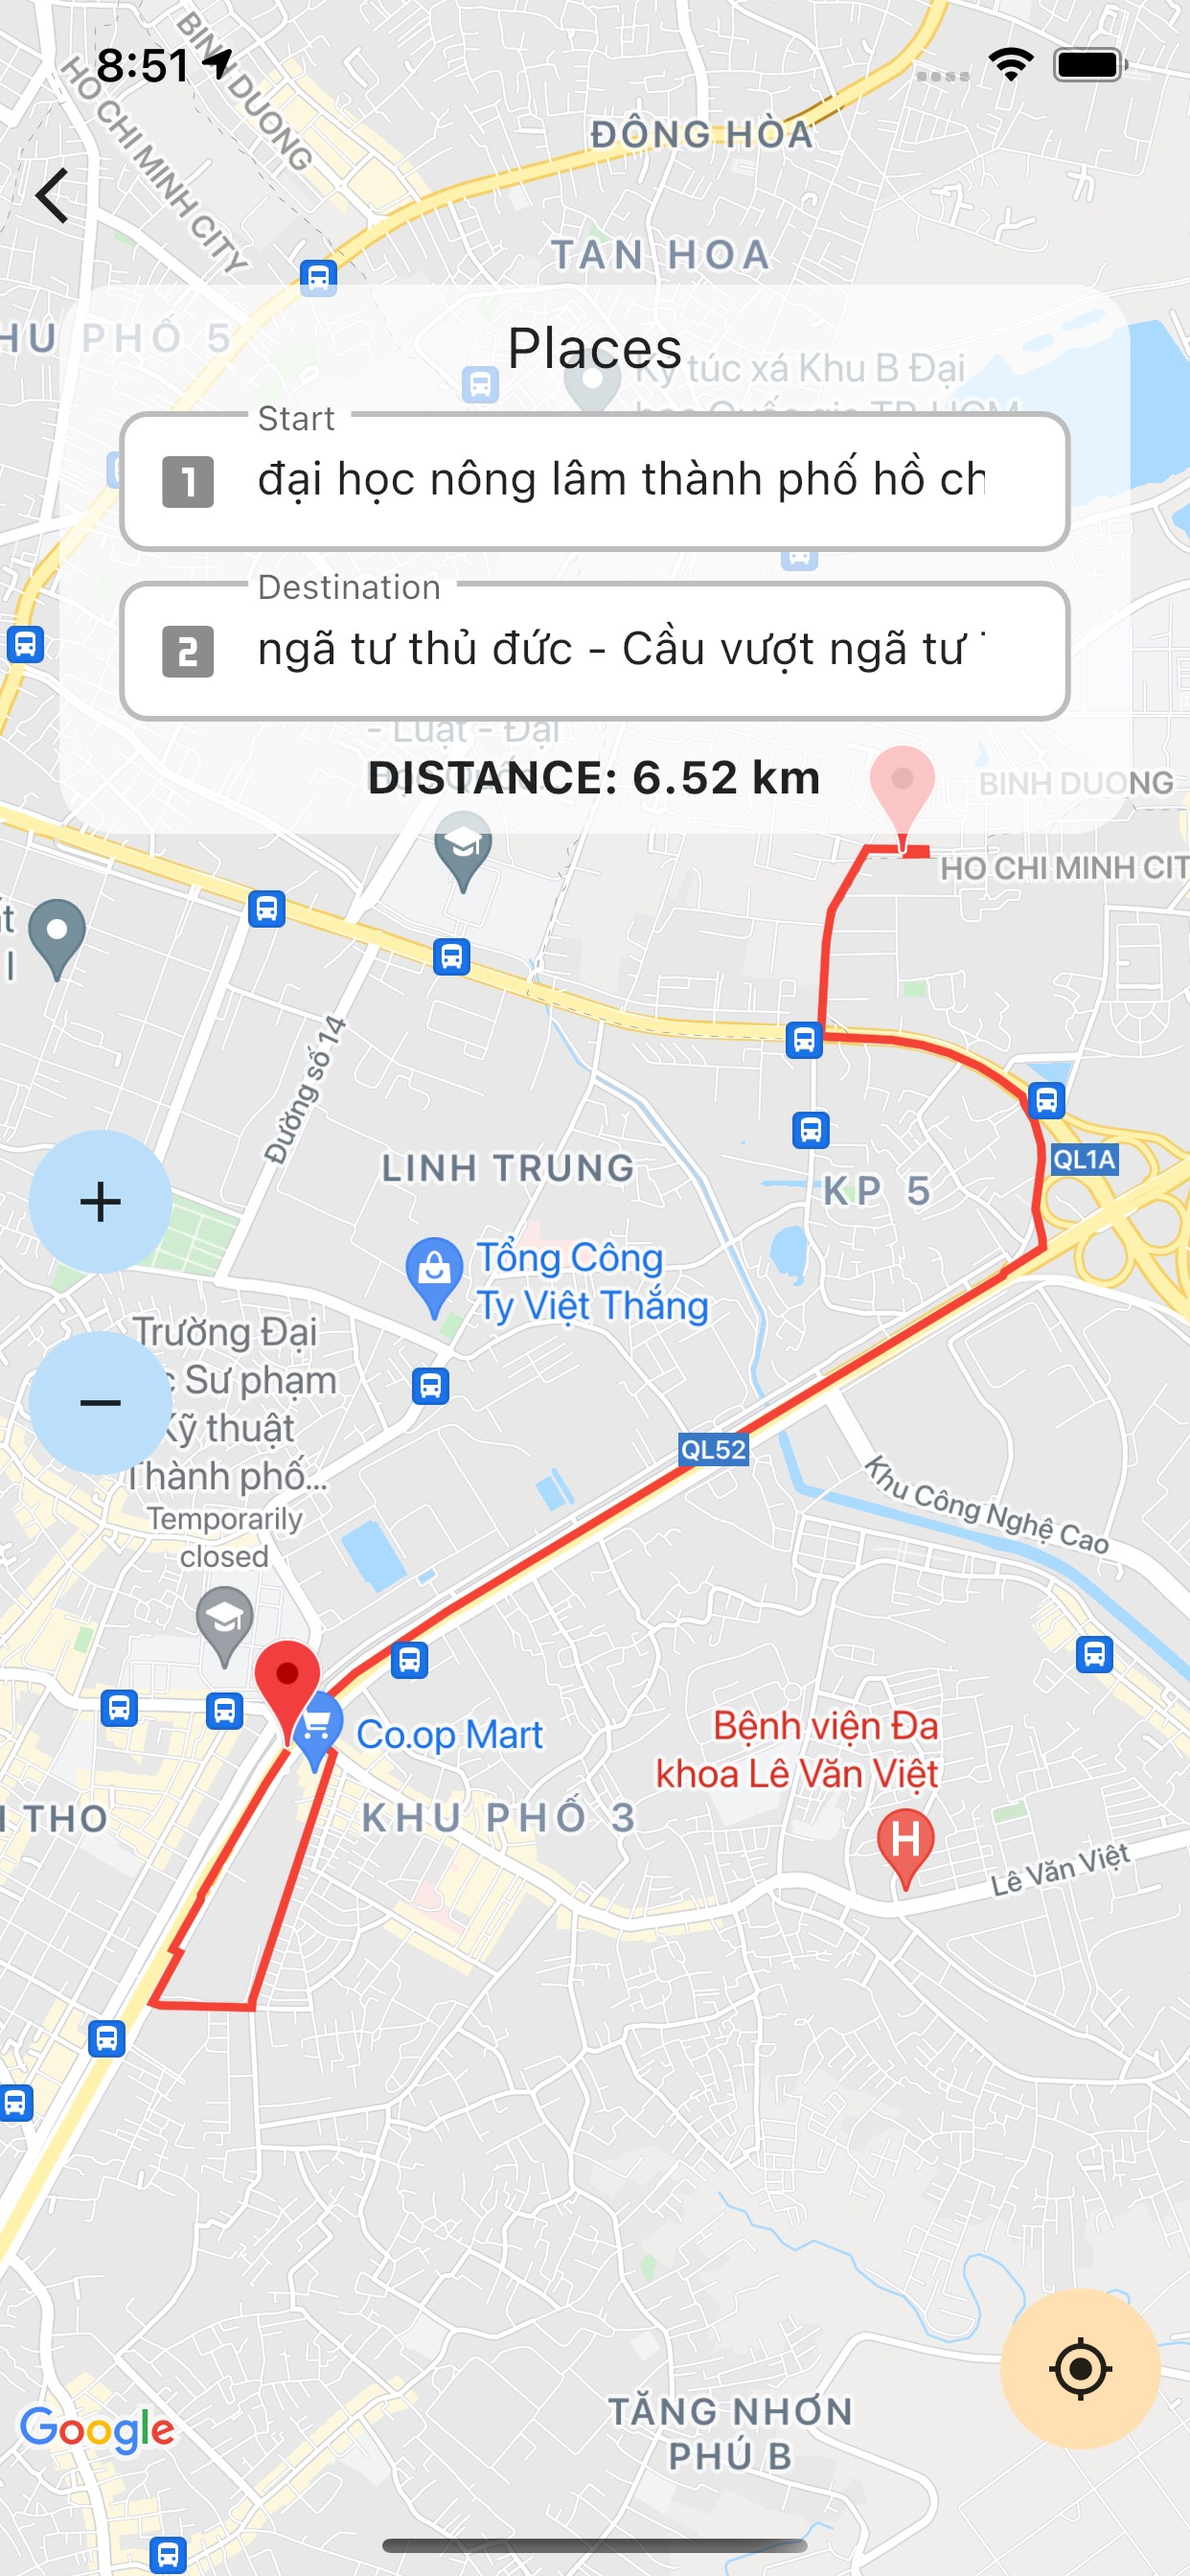
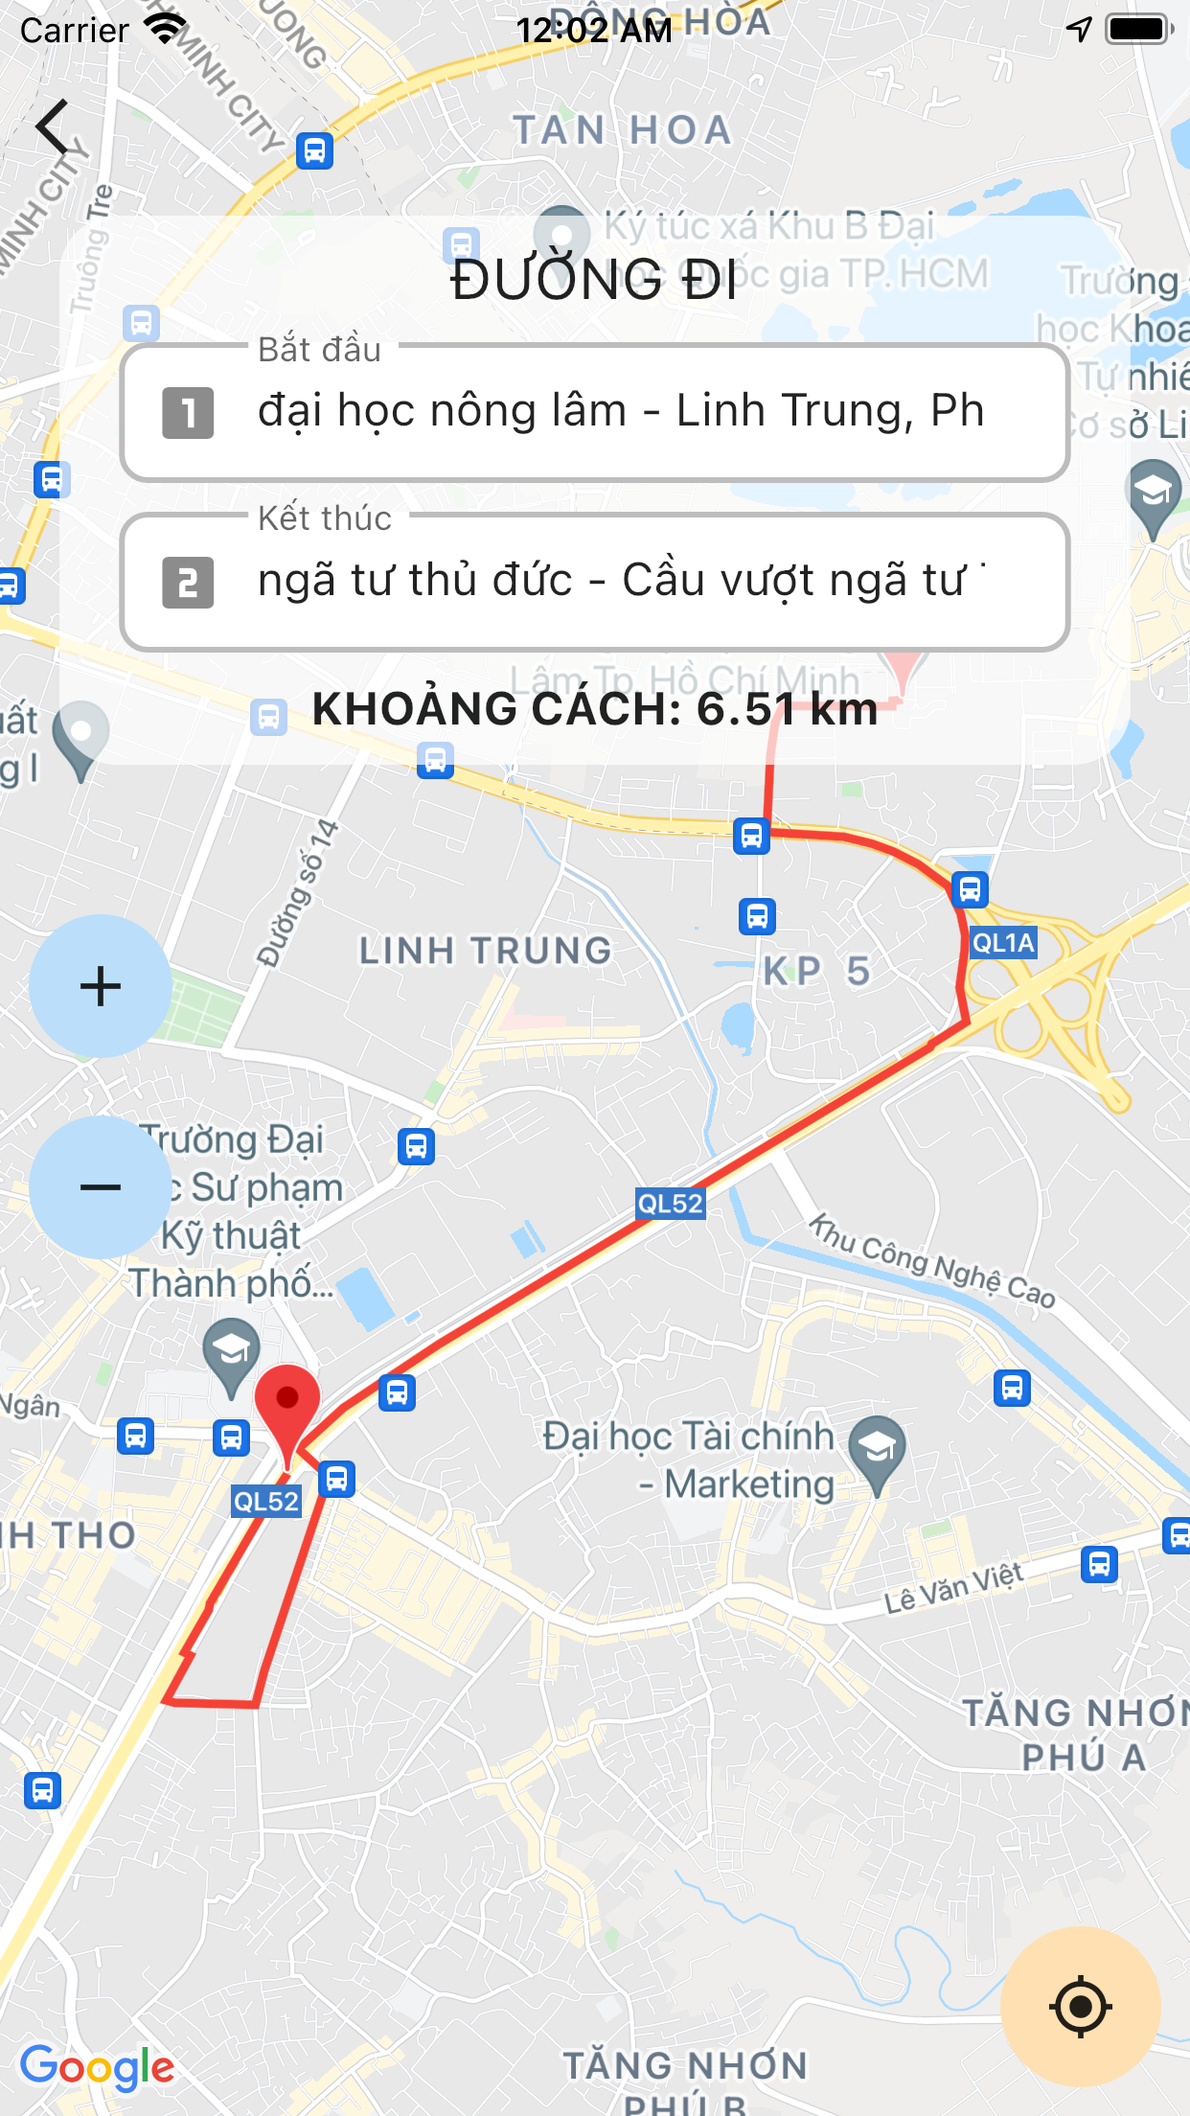
edit all text & img

diff --git a/Chapter2/chapter2.tex b/Chapter2/chapter2.tex
@@ -18,7 +18,7 @@ Chatbot có thể được phân chia thành các loại sau đây:
 
     \item Chatbot kết hợp - Những chatbot này kết hợp các yếu tố của bot dựa trên menu và nhận dạng từ khóa. Người dùng có thể chọn để câu hỏi của họ được trả lời trực tiếp, nhưng cũng có thể truy cập menu của chatbot để thực hiện lựa chọn nếu quá trình nhận dạng từ khóa tạo ra kết quả không hiệu quả.
 
-    \item Chatbot theo ngữ cảnh - Những chatbot này phức tạp hơn những chatbot được liệt kê ở trên và yêu cầu tập trung vào dữ liệu. Họ sử dụng \ac{ml} và \ac{ai} để ghi nhớ các cuộc trò chuyện và tương tác với người dùng, sau đó sử dụng những ký ức này để phát triển và cải thiện theo thời gian. Thay vì dựa vào từ khóa, những bot này sử dụng những gì khách hàng yêu cầu và cách chúng yêu cầu để đưa ra câu trả lời và tự cải thiện.
+    \item Chatbot theo ngữ cảnh - Những chatbot này phức tạp hơn những chatbot được liệt kê ở trên và yêu cầu tập trung vào dữ liệu. Họ sử dụng Machine Learning và \ac{ai} để ghi nhớ các cuộc trò chuyện và tương tác với người dùng, sau đó sử dụng những ký ức này để phát triển và cải thiện theo thời gian. Thay vì dựa vào từ khóa, những bot này sử dụng những gì khách hàng yêu cầu và cách chúng yêu cầu để đưa ra câu trả lời và tự cải thiện.
 
     \item Chatbot hỗ trợ giọng nói - Loại chatbot này là tương lai của công nghệ chatbot. Các chatbot hỗ trợ giọng nói sử dụng đối thoại bằng giọng nói từ người dùng làm dữ liệu đầu vào. Chúng có thể được tạo ra bằng cách sử dụng bộ công cụ chuyển đổi văn bản thành giọng nói (\ac{tts}) và giao diện ứng dụng nhận dạng giọng nói (\ac{api}) \cite{chat-bot}.
 
@@ -53,7 +53,7 @@ Chatbot có thể được phân chia thành các loại sau đây:
     \label{fig:Kiến trúc cơ bản của hệ thống giao tiếp tự động}
 \end{figure}
 
-Các hệ thống chatbot giao tiếp với con người bằng giọng nói (như Siri \footnote{Xem thêm về Siri tại đây:\url{https://www.apple.com/siri/}}) hoặc bằng văn bản (như các chatbot phát triển trên nền Facebook Messenger \footnote{Xem thêm về Facebook Messenger tại đây:\url{https://www.apple.com/siri/}})). Dù giao tiếp bằng hình thức nào, chatbot cũng cần phải hiểu văn bản để có thể đưa ra những câu trả lời phù hợp cho khách hàng. Thành phần đảm nhiệm công việc này trong hệ thống chatbot được gọi là \ac{nlu}, trong đó có rất nhiều các kỹ thuật xử lý ngôn ngữ tự nhiên (\ac{nlp}) được áp dụng.
+Các hệ thống chatbot giao tiếp với con người bằng giọng nói (như Siri \footnote{Xem thêm về Siri tại đây:\url{https://www.apple.com/siri/}}) hoặc bằng văn bản (như các chatbot phát triển trên nền Facebook Messenger \footnote{Xem thêm về Facebook Messenger tại đây:\url{https://www.apple.com/siri/}})). Dù giao tiếp bằng hình thức nào, chatbot cũng cần phải hiểu văn bản để có thể đưa ra những câu trả lời phù hợp cho khách hàng. Thành phần đảm nhiệm công việc này trong hệ thống chatbot được gọi là \ac{nlu}, trong đó có rất nhiều các kỹ thuật xử lý ngôn ngữ tự nhiên (\ac{nlp}) được áp dụng (xem hình \ref{fig:Kiến trúc cơ bản của hệ thống giao tiếp tự động}).
 \\
 Hai thành phần liên quan đến xử lý ngôn ngữ tự nhiên không thể thiếu của một \ac{nlu} module là bộ phân loại ý định và \ac{ner}. Phân loại ý định giúp chatbot hiểu ý định của người dùng. Về mặt bản chất phân loại ý định chính là một bài toán phân loại câu với tập nhãn là các ý định có thể có của người dùng (đã được định nghĩa từ trước). \ac{ner} giúp chatbot trích xuất các thông tin trong yêu cầu/câu trả lời của người dùng. Các thông tin đó có thể là tên sản phẩm, địa chỉ, số điện thoại, số tài khoản của người dùng,… \ac{ner} là một bài toán gán nhãn chuỗi cơ bản: cho vào một câu đầu vào, trích xuất tất cả các thực thể định danh trong câu và phân loại chúng vào một trong các nhãn đã được định nghĩa từ trước.
 \\

diff --git a/Chapter6/chapter6.tex b/Chapter6/chapter6.tex
@@ -6,7 +6,7 @@
 
 Xây dựng thành công giải pháp trả lời tự động bằng tiếng Việt với các chức năng chi tiết như sau:.
 \begin{itemize}
-    \item[--] Xây dựng thành công ứng dụng chatbot trên hai nền tảng Android và IOS.
+    \item[--] Xây dựng thành công ứng dụng chatbot trên hai nền tảng Android và iOS.
     \item[--] Chatbot sử dụng ngôn ngữ trò chuyện chính là Tiếng Việt.
     \item[--] Ứng dụng cho phép người dùng tương tác với chatbot bằng giọng nói và văn bản.
 \end{itemize}I
@@ -142,7 +142,7 @@ Giao diện ứng dụng khi mở lên sẽ hiển thị như sau (hình \ref{fi
     \caption{Màn hình trò chuyện}
     \label{fig:home}
 \end{figure}
-Khi nhấn vào button "Nói chuyện", màn hình sẽ chuyển sang màn hình cuộc hội thoại.
+Khi nhấn vào nút "Nói chuyện", màn hình sẽ chuyển sang màn hình cuộc hội thoại.
 Giao diện ứng dụng khi thực hiện các đoạn hội thoại giữa người và máy sẽ hiển thị như sau (hình \ref{fig:screen-chat}) :
 \begin{figure}[H]
     \centering
@@ -157,7 +157,7 @@ Giao diện gồm các phần sau đây:
     \item[--] Bên phải khung hình hiển thị dữ liệu người dùng nhập vào.
     \item[--] Bên trái khung hình hiển thị trả lời từ ứng dụng.
     \item[--] Thời gian tin nhắn được gửi đi và thời gian nhận được phản hồi.
-    \item[--] Khi tìm kiếm kết quả thành công, kết quả hướng dẫn đường đi được trả về, button "Xem đường đi" dùng để chuyển sang màn hình bản đồ chỉ đường.
+    \item[--] Khi tìm kiếm kết quả thành công, kết quả hướng dẫn đường đi được trả về, nút "Xem đường đi" dùng để chuyển sang màn hình bản đồ chỉ đường.
 \end{itemize}
 
 Khi người dùng bấm vào icon "micro" trên màn hình cuộc hội thoại, nếu đây là lần đầu sử dụng ứng dụng với chức năng này, ứng dụng sẽ xin người dùng cấp quyền cho phép ghi âm từ thiết bị (xem hình \ref{fig: accesss-mic}), khi chọn cho phép, người dùng có thể sử dụng chức năng này để ghi âm giọng nói.
@@ -181,6 +181,7 @@ Giao diện ứng dụng khi đang thực hiện ghi âm giọng nói sẽ hiể
 Bán kính của vòng tròn hiển thị trong khi thực hiện quá trình ghi âm được hiển thị tăng giảm theo cường độ âm thanh thu được.
 
 Sau khi kết thúc yêu cầu bằng giọng nói, ứng dụng tự động chuyển đổi giọng nói thành văn bản gửi lên hệ thống và hiển thị văn bản lên màn hình cuộc hội thoại.
+
 
 \textbf{Giao diện chức năng hiển thị bản đồ:}
 
@@ -207,6 +208,6 @@ Giao diện gồm các phần sau đây:
     \item[--] "Kết thúc": Hiển thị thông tin địa điểm kết thúc.
     \item[--] Hiển thị khoảng cách của hai địa điểm.
     \item[--] Chính giữa màn hình hiển thị bản đồ, điểm đầu và điểm cuối đường đi và đường đi giữa hai điểm được thể hiện bằng dòng kẻ màu đỏ.
-    \item[--] Bên trái màn hình có button phóng to và thu nhỏ bản đồ.
-    \item[--] Bên góc bên phải phía dưới màn hình có button dùng để xác định vị trí hiện tại của người dùng.
+    \item[--] Bên trái màn hình có nút phóng to và thu nhỏ bản đồ.
+    \item[--] Bên góc bên phải phía dưới màn hình có nút dùng để xác định vị trí hiện tại của người dùng.
 \end{itemize}

diff --git a/Chapter5/chapter5.tex b/Chapter5/chapter5.tex
@@ -107,7 +107,7 @@ Các chức năng chính của ứng dụng:
     \item[--] Hỏi vị trí hiện tại.
     \item[--] Hỏi địa chỉ chính xác của một địa danh cụ thể.
     \item[--] Hỏi khoảng cách từ một địa điểm đến một địa điểm.
-    \item[--] Hiển thị giao diện bản đồ chỉ đường đi. 
+    \item[--] Xem giao diện bản đồ chỉ đường đi. 
 \end{itemize}
 
 \section{Xây dựng luồng ứng dụng - Flow Diagram}
